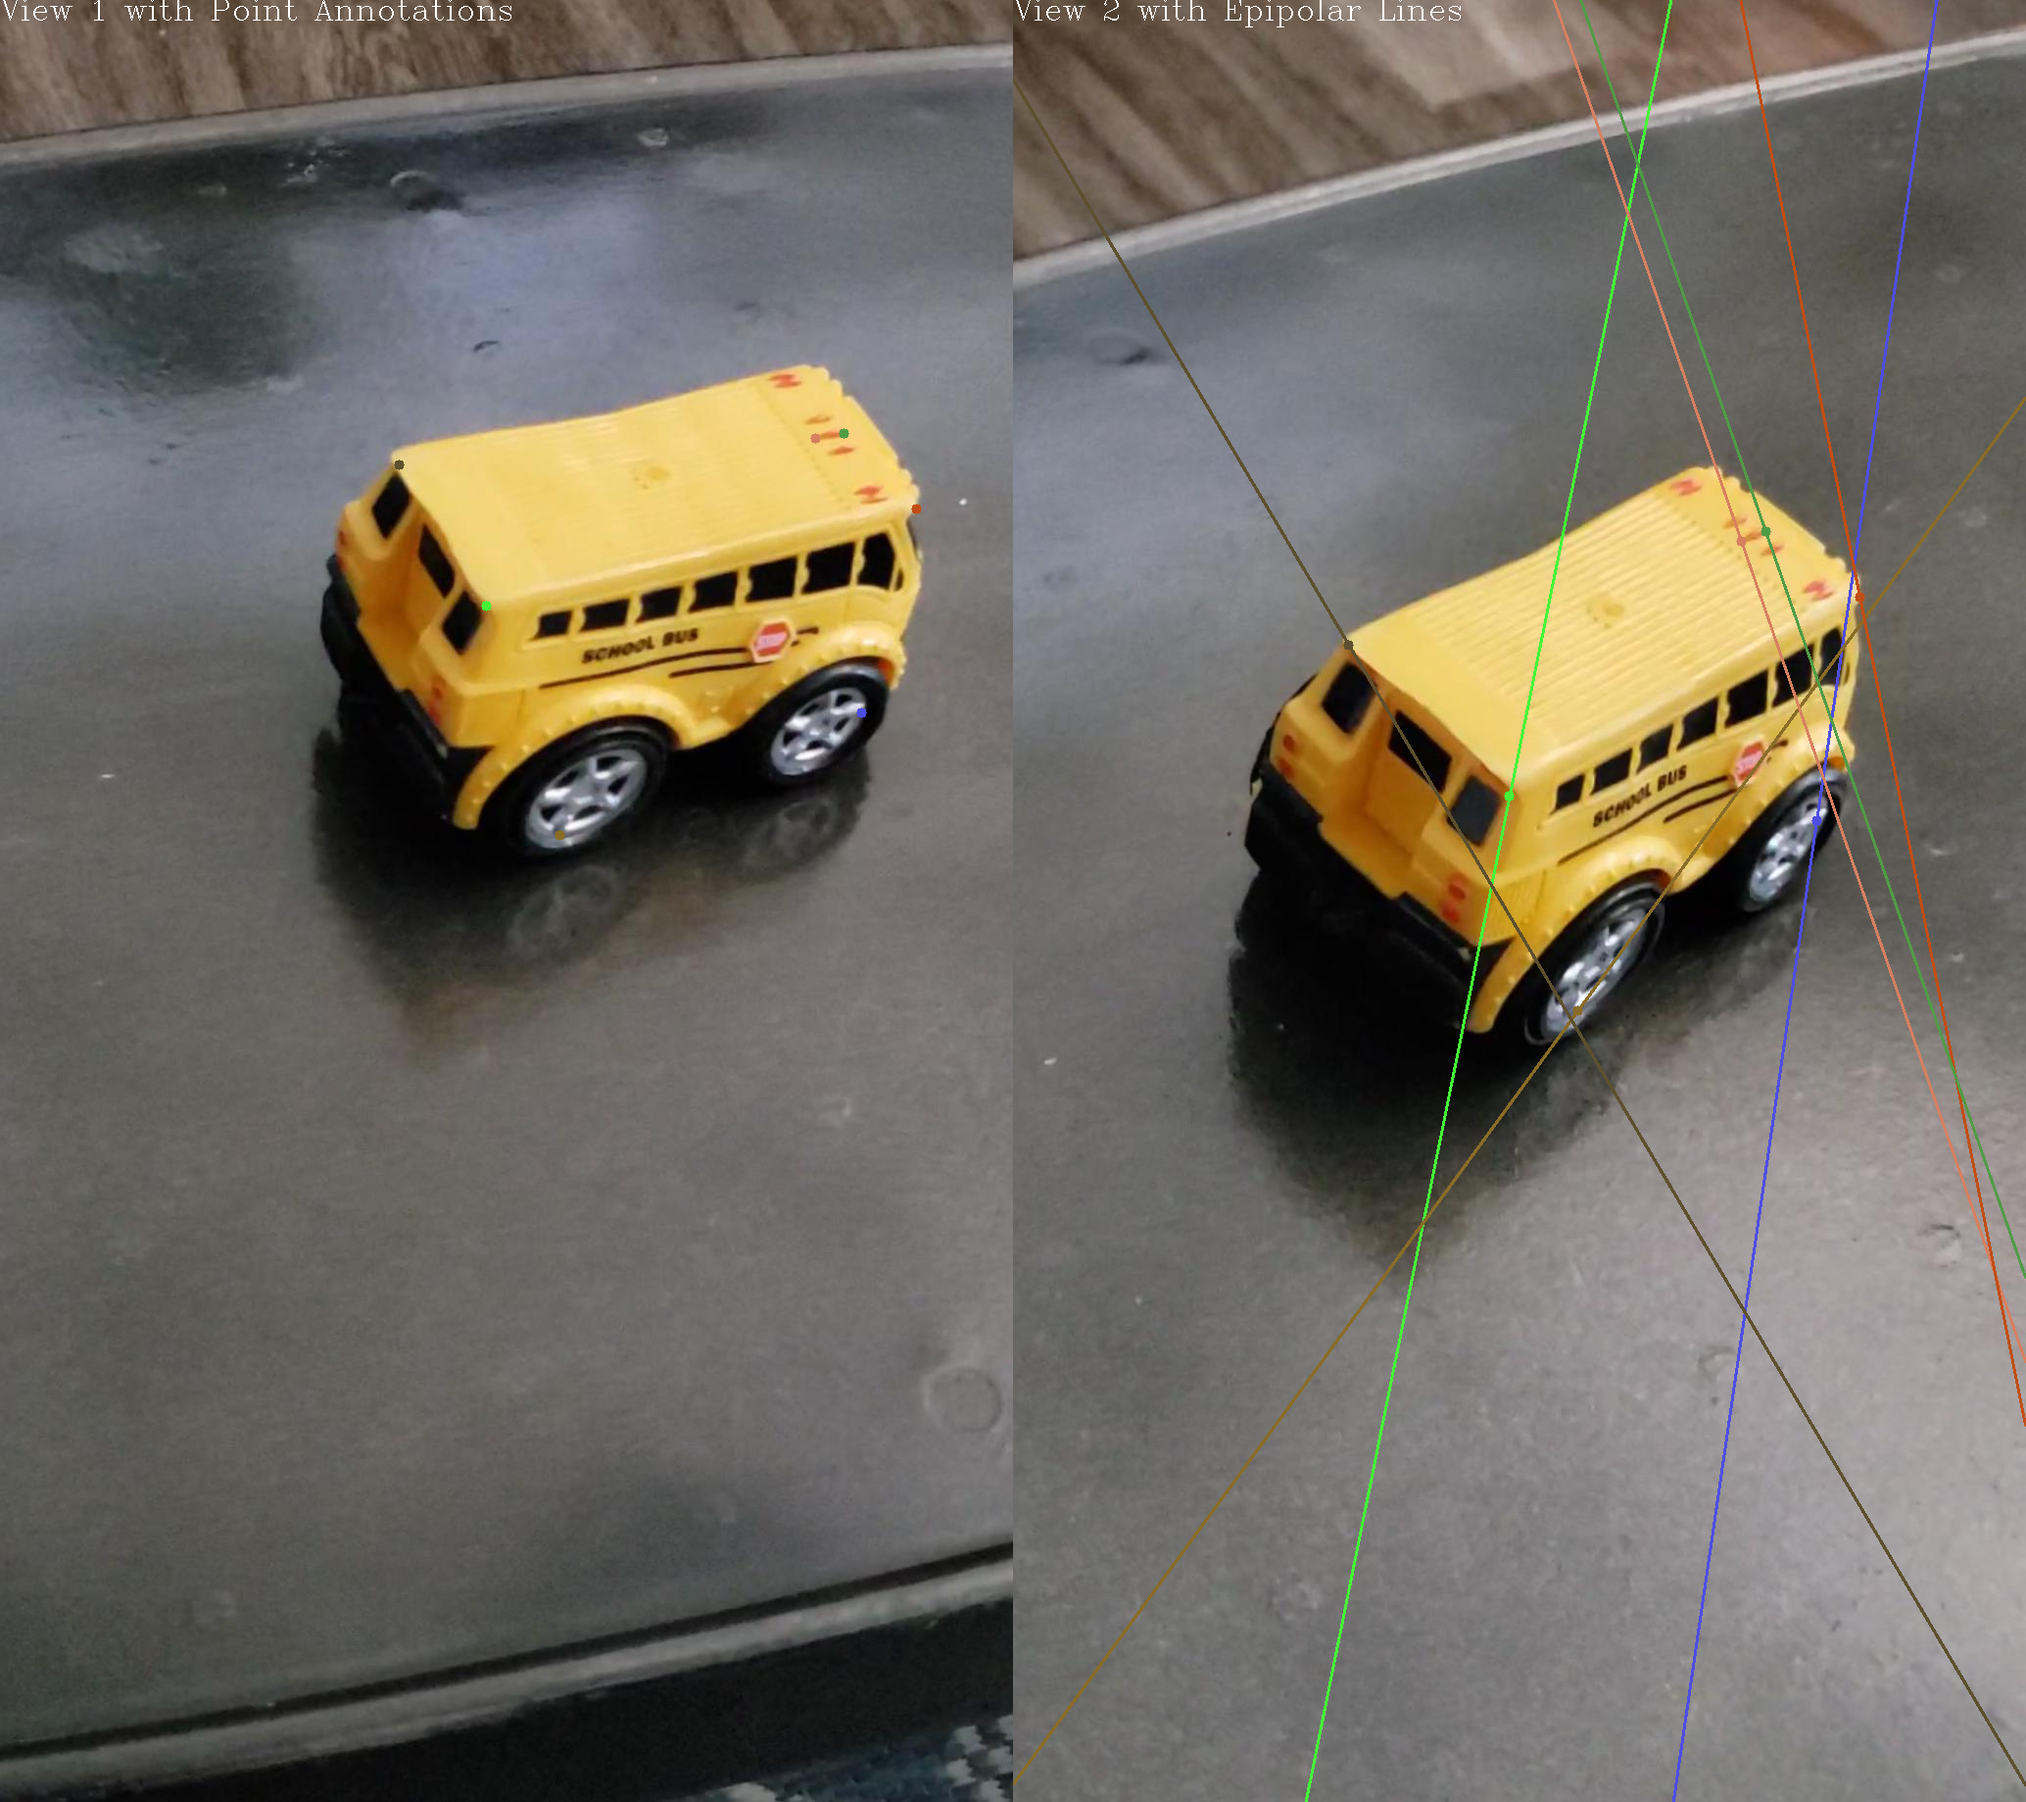
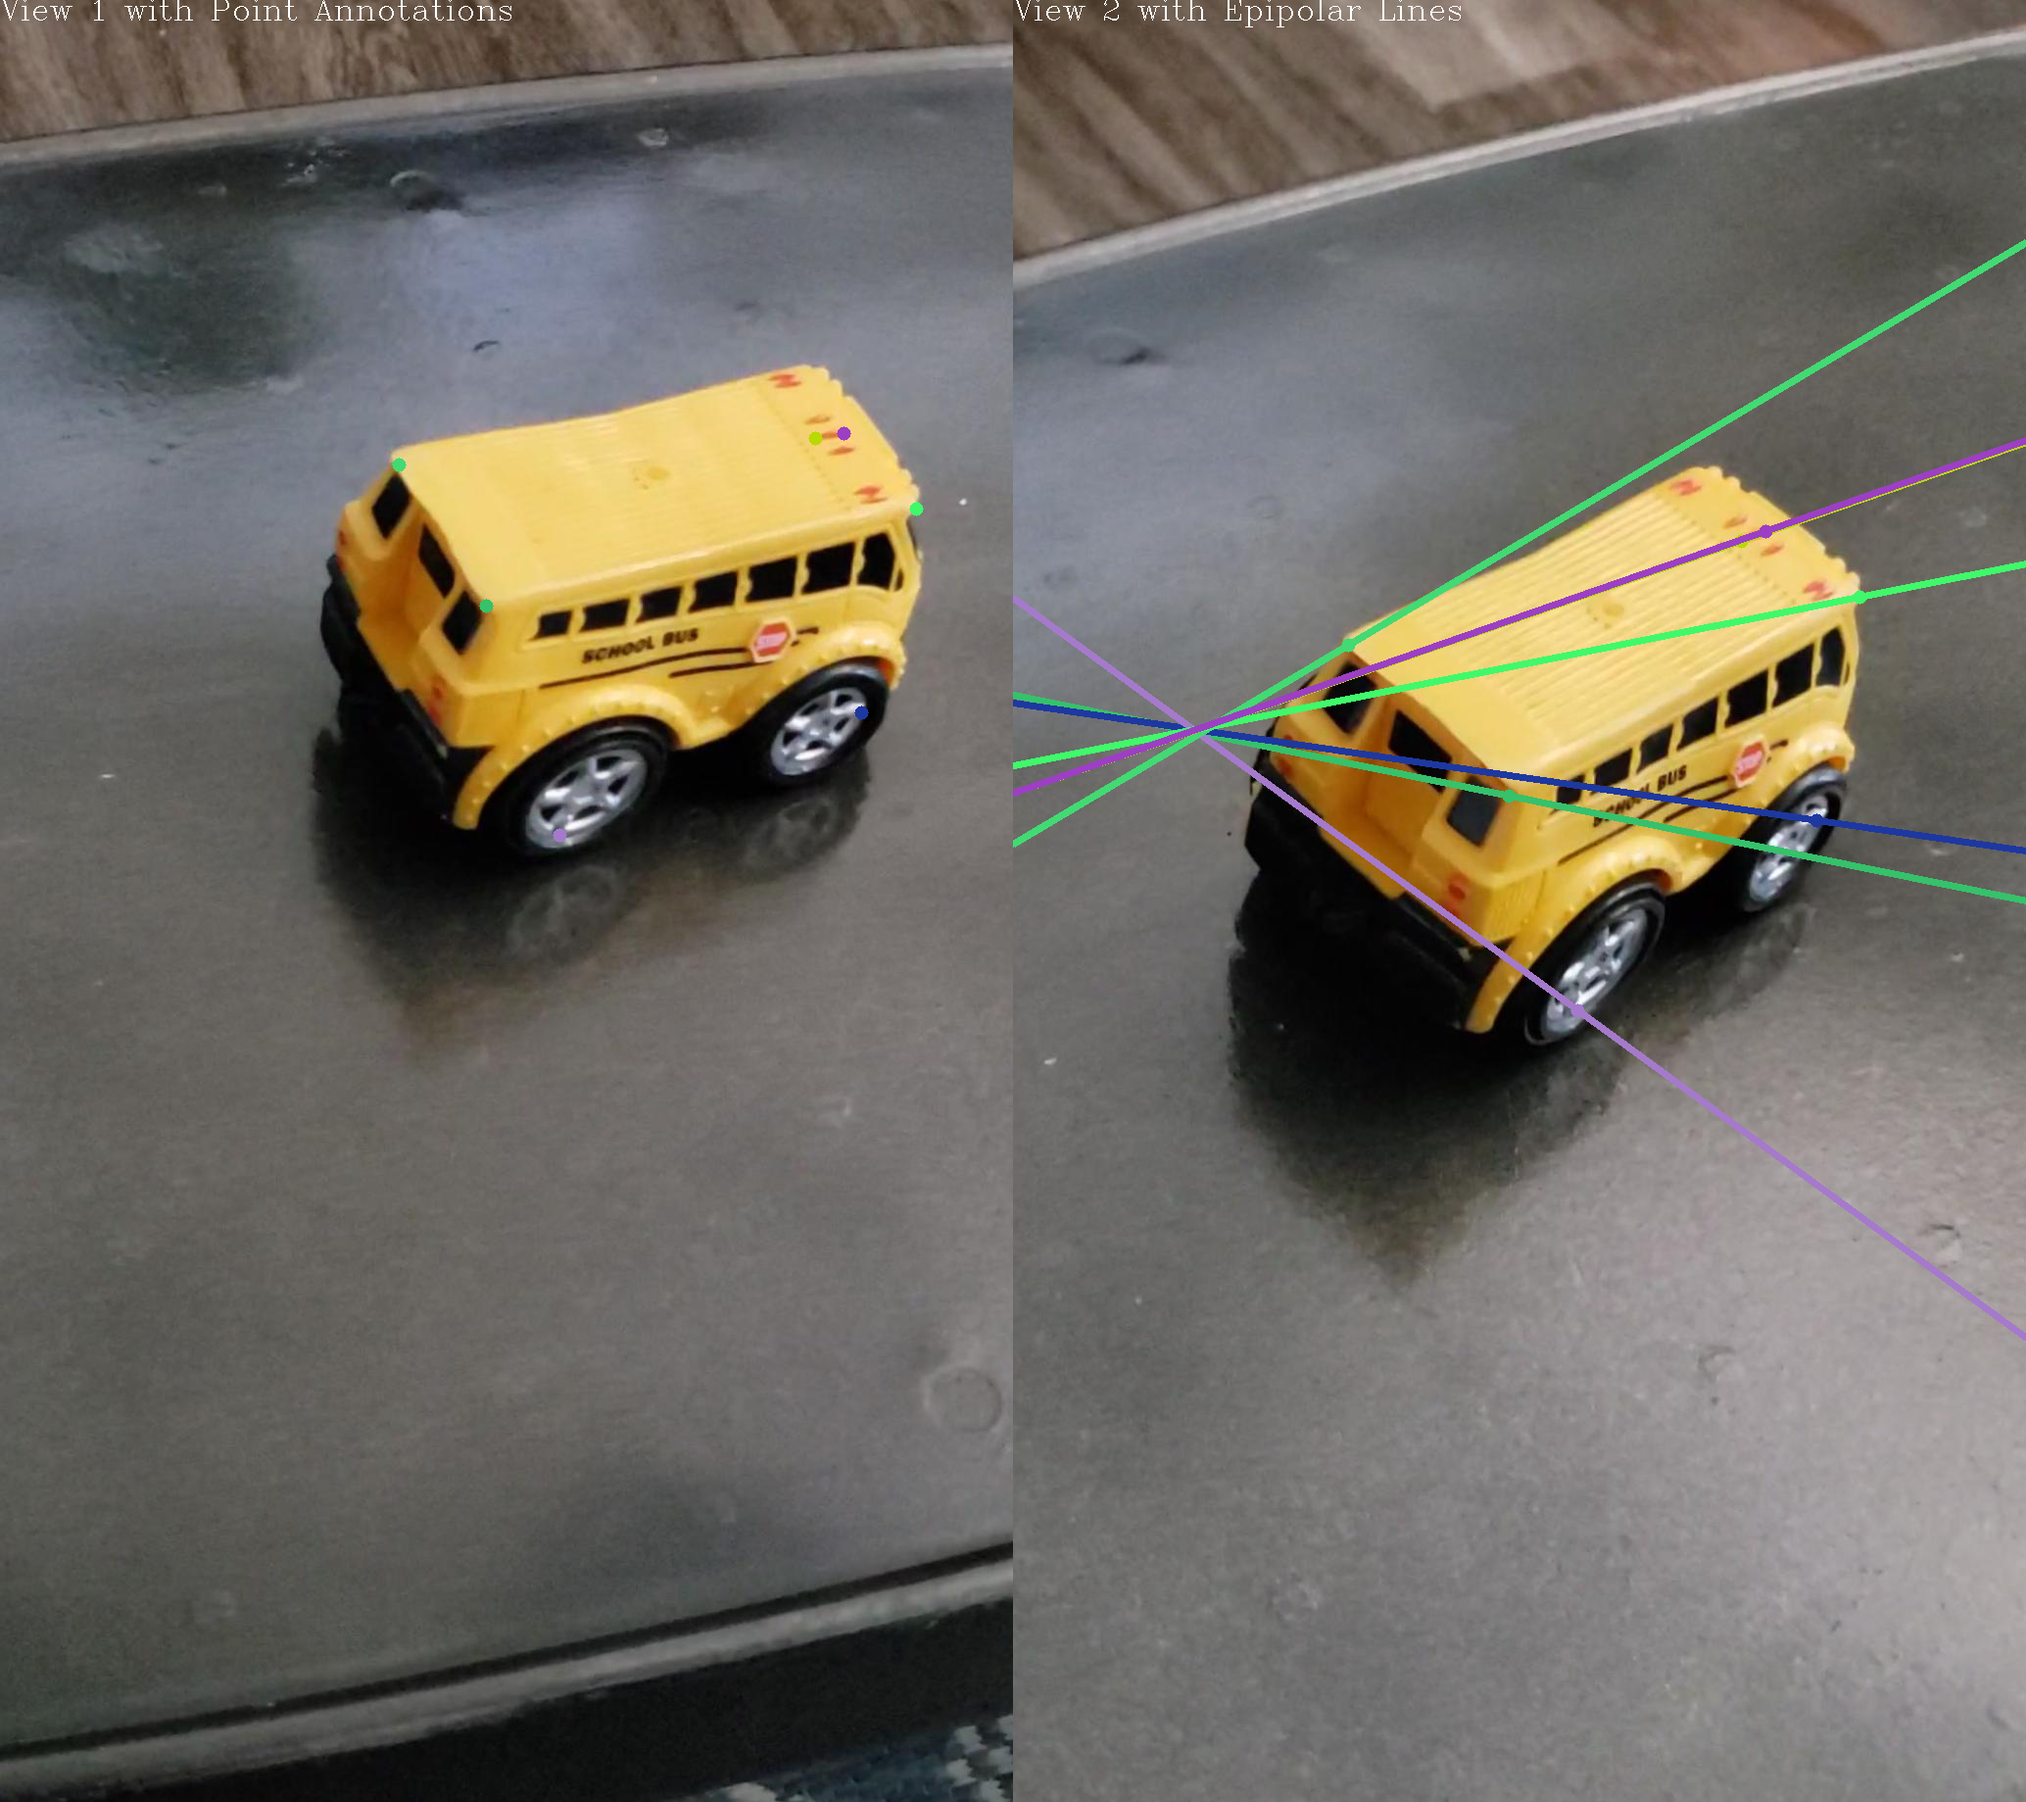
Additional epipolar line stuff

diff --git a/q1a.py b/q1a.py
@@ -98,7 +98,12 @@ def draw_epipolar_lines(img1, img2, F, pts1, pts2, out_fp, show_lines=False):
 
     h1, w1, _ = img1.shape
     h2, w2, _ = img2.shape
+
     for p, p_prime in zip(pts1, pts2):
+        # Eearly exit
+        if i == 10:
+            break
+
         # Get color
         color = (int(colors[i][0]), int(colors[i][1]), int(colors[i][2]))
 
@@ -109,16 +114,17 @@ def draw_epipolar_lines(img1, img2, F, pts1, pts2, out_fp, show_lines=False):
         l      /= l[-1]
 
         # Put point p_i and corresponding epipolar line l_i
-        cv2.circle(out_im1, center=tuple(p.astype("int")), radius=5, thickness=-1, color = color)
-        cv2.circle(out_im2, center=tuple(p_prime.astype("int")), radius=5, thickness=-1, color=color)
+        cv2.circle(out_im1, center=tuple(p.astype("int")), radius=7, thickness=-1, color = color)
+        cv2.circle(out_im2, center=tuple(p_prime.astype("int")), radius=7, thickness=-1, color=color)
 
         # Coeff calculation for line
         if show_lines:
-            lower_l_s  = int(-p_prime[0]/l_prime[0])
-            higher_l_s = int((w2-1-p_prime[0]) /l_prime[0])
-            lower_y_val  = int(p_prime[1] + lower_l_s*l_prime[1])
-            higher_y_val = int(p_prime[1] + higher_l_s*l_prime[1])
-            cv2.line(out_im2, (0, lower_y_val), (w1-1, higher_y_val), color = color, thickness=2)
+            a,b,c = l_prime
+            x1 = 0
+            y1 = (a*p_prime[0] + b*p_prime[1])/b
+            x2 = w2
+            y2 = (a*p_prime[0] + b*p_prime[1] - a*x2)/b
+            cv2.line(out_im2, (int(x1), int(y1)), (int(x2), int(y2)), color = color, thickness=5)
 
         # Increment counter
         i+=1
@@ -155,7 +161,7 @@ def main(img1_file, img2_file, intr, corr, out_dir):
     np.savetxt(f"{out_dir}/E.txt", E)
 
     # Draw the epipoilar lines
-    draw_epipolar_lines(img1, img2, F_eight, pts1[:10], pts2[:10], f"{out_dir}/F_epipolar_eight_pt.png", show_lines=True)
+    draw_epipolar_lines(img1, img2, F_eight, pts1, pts2, f"{out_dir}/F_epipolar_eight_pt.png", show_lines=True)
 
 # Entrypoint
 if __name__ == "__main__":
